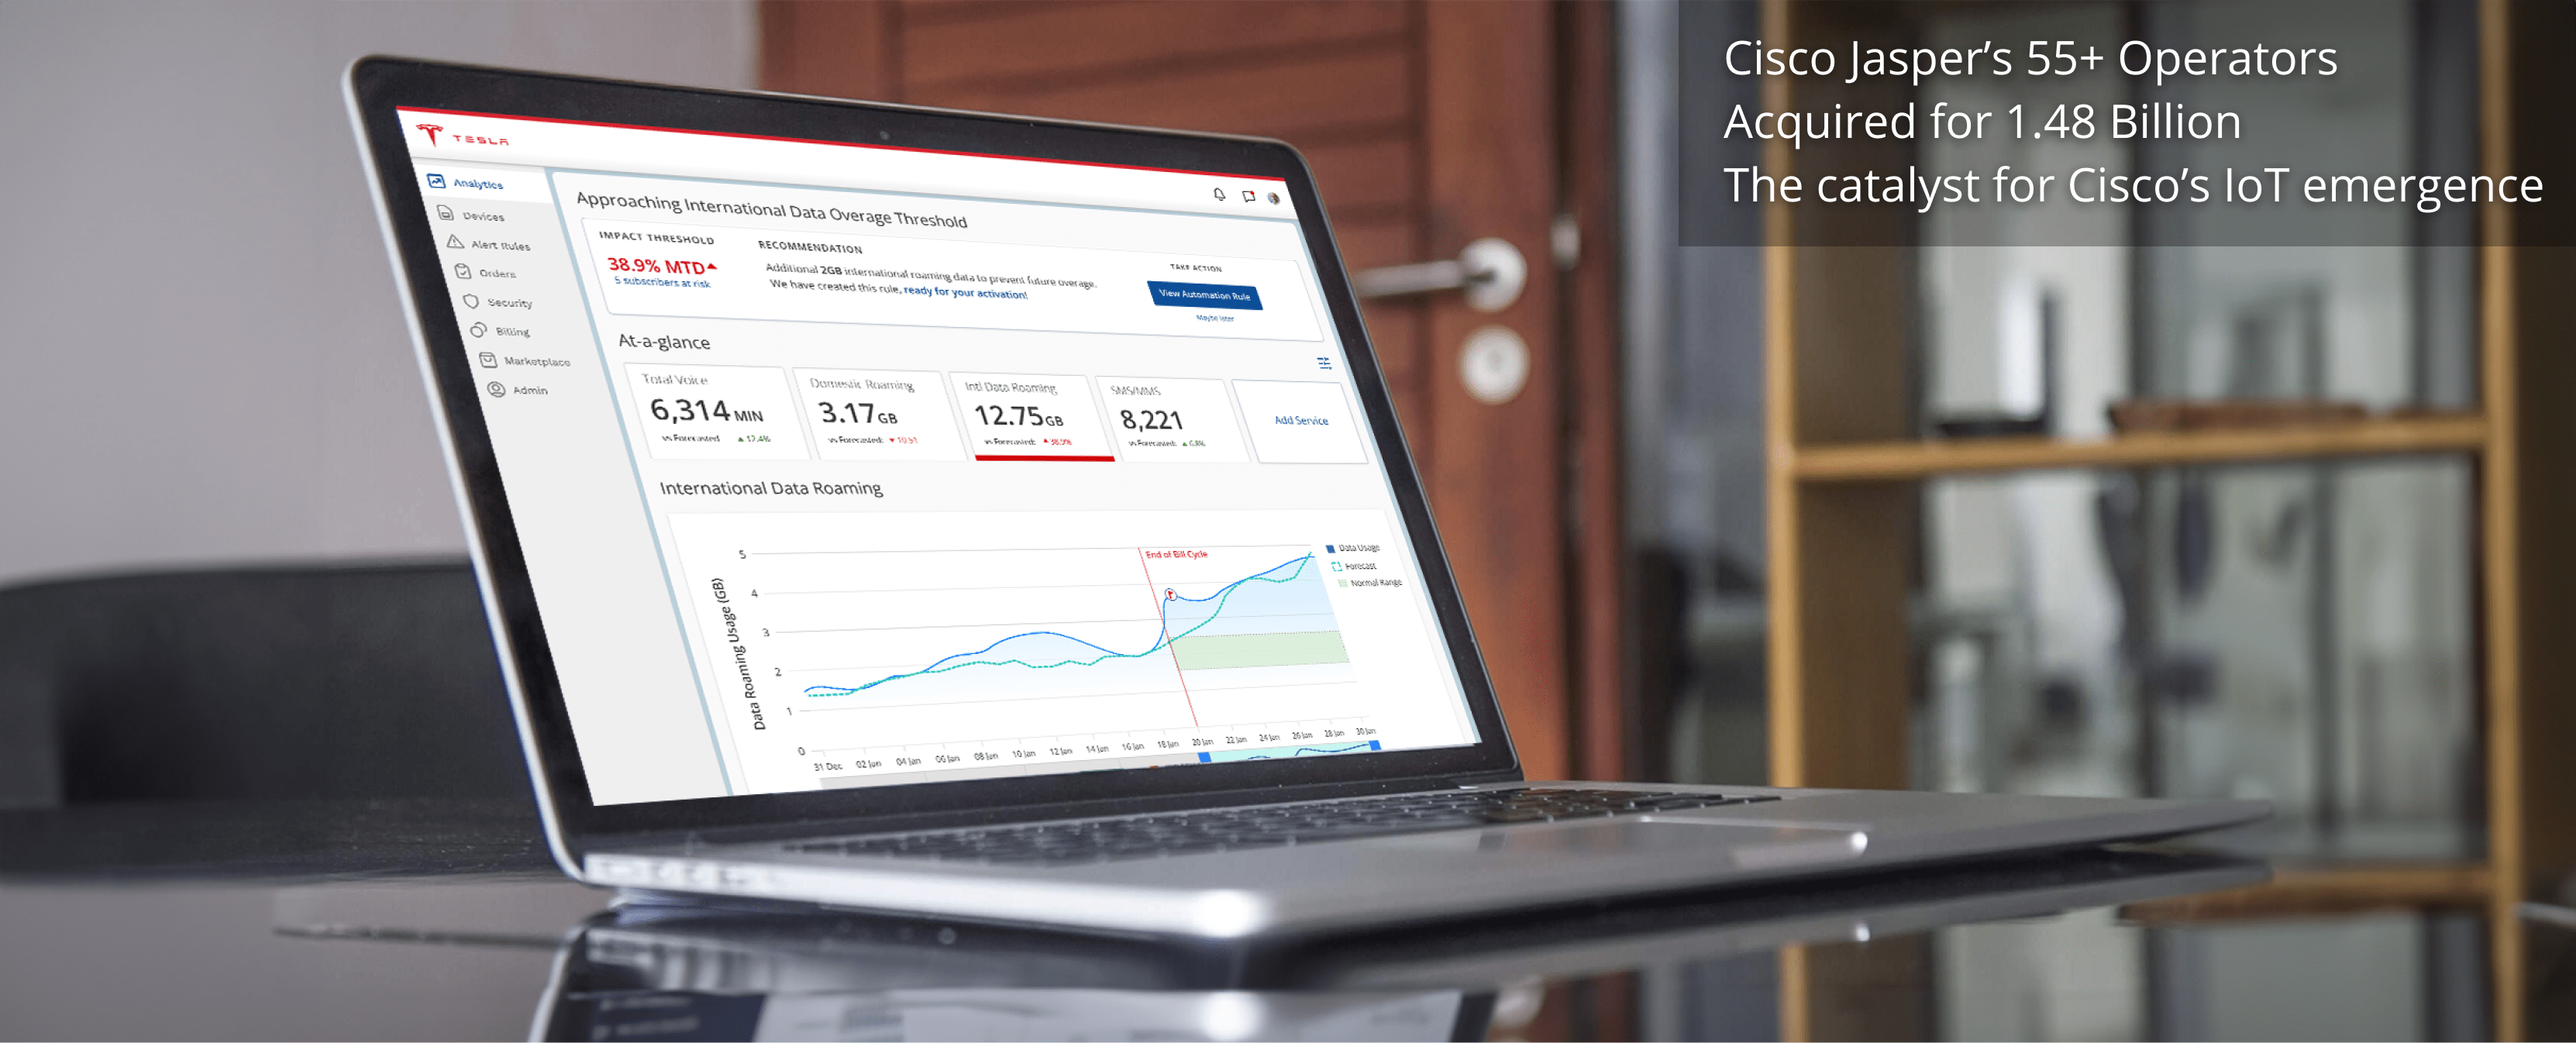
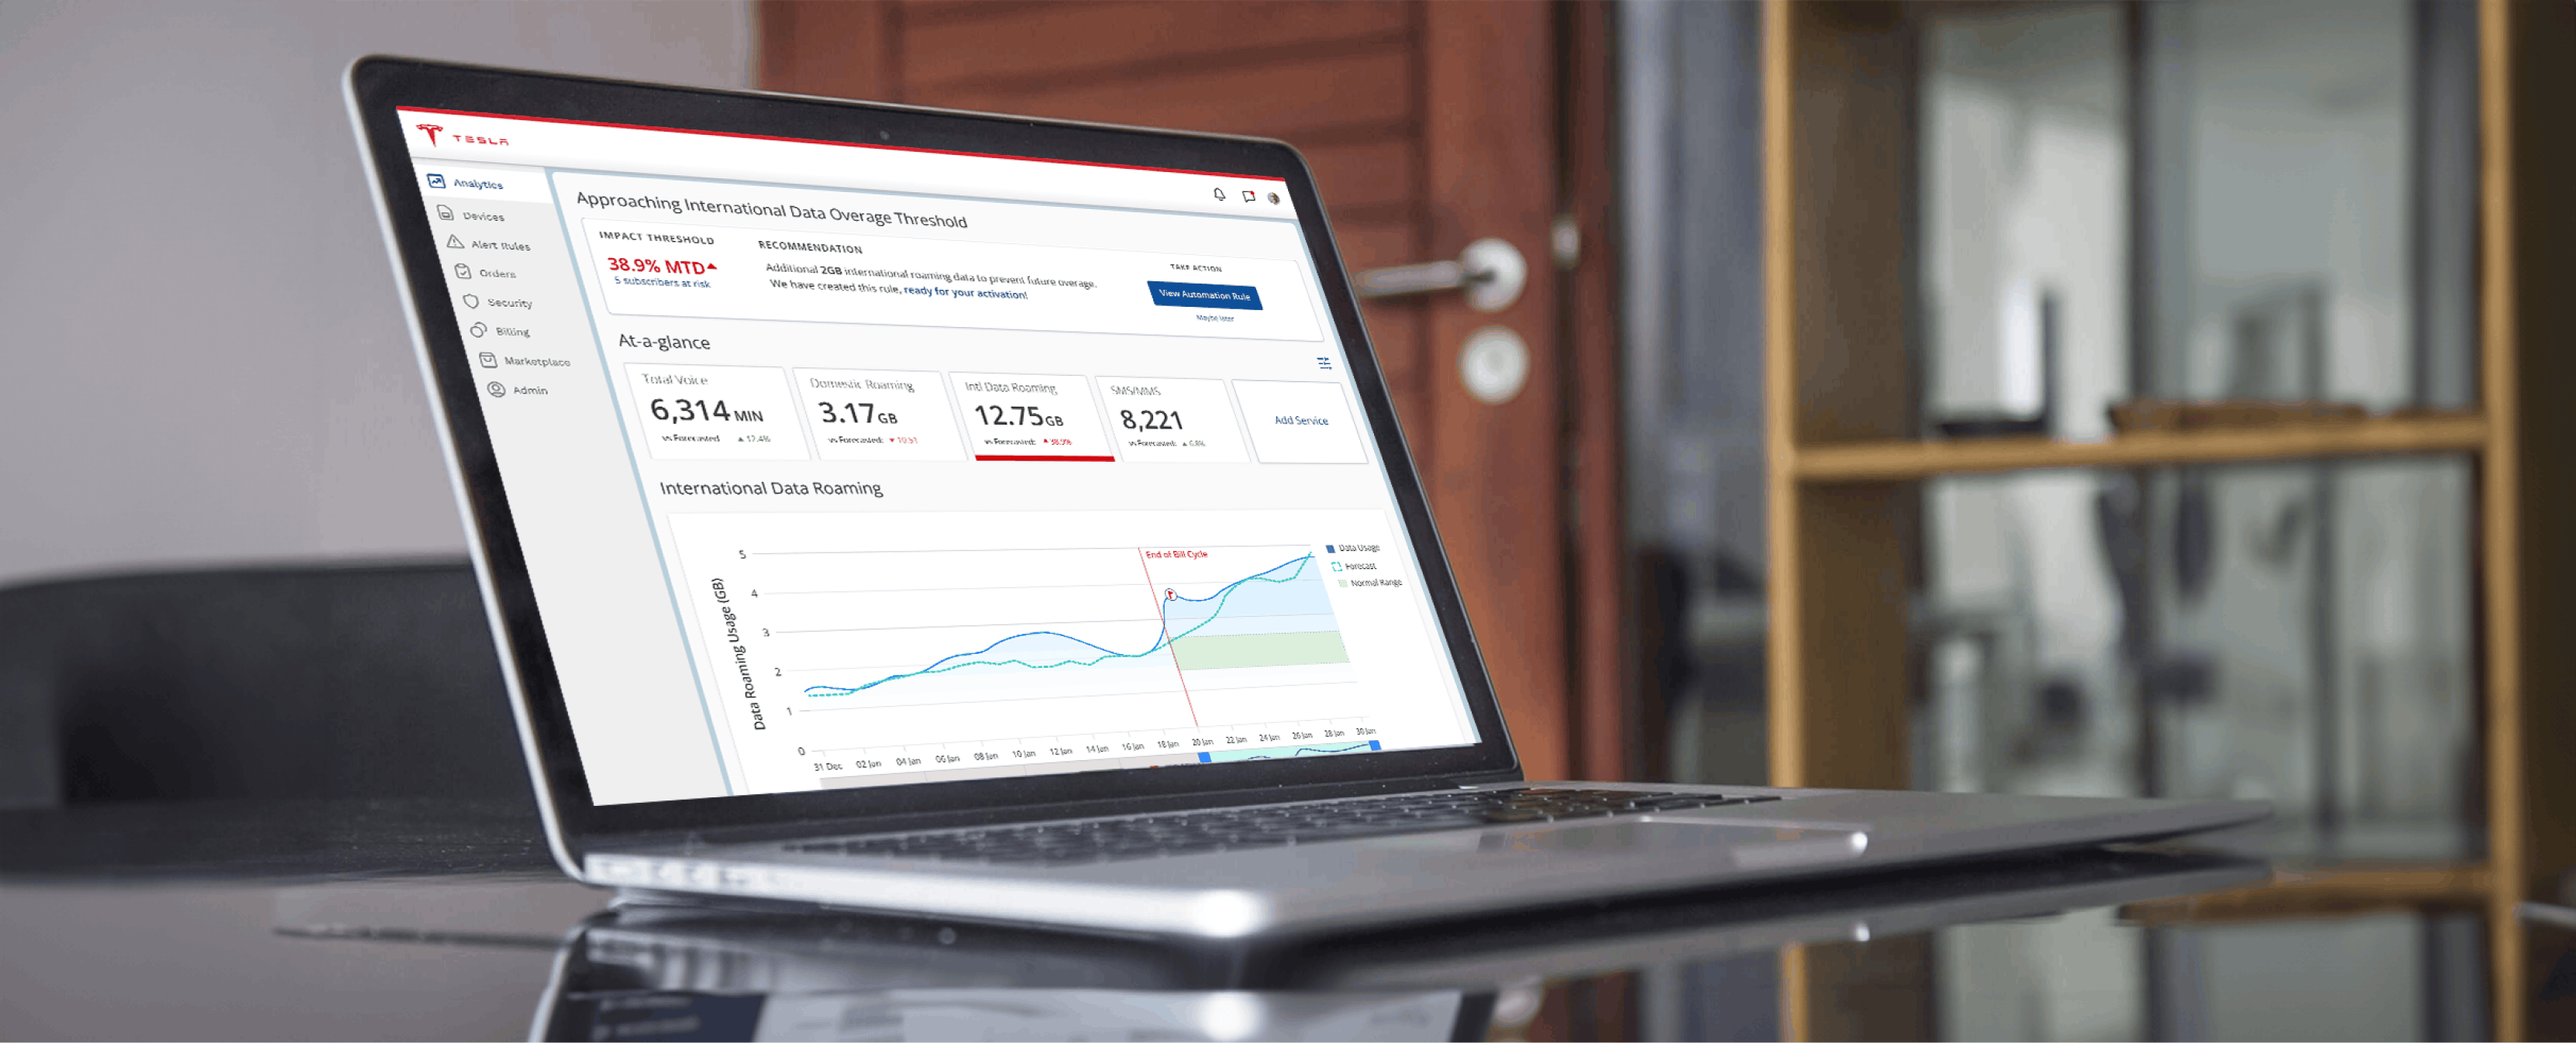
Jasper hero: use clean image and set the caption as live heading-font text
Claude-Session: https://claude.ai/code/session_01KNEX49o53edZYdAVqiDnVh

Changed region(s): [[0.6507, 0.0, 1.0, 0.2496]]

diff --git a/app/project.css b/app/project.css
@@ -792,3 +792,8 @@
   #project .jasper-legacy-annotations { display:grid; gap:8px; padding:12px 0; }
   #project .jasper-legacy-annotations .legacy-annotation { display:block; position:static; box-shadow:none; }
 }
+
+/* Jasper hero caption (live text over the clean hero image) */
+#project #project-header.jasper-hero { position:relative; }
+#project .jasper-hero-caption { position:absolute; top:clamp(10px,3%,32px); right:clamp(12px,3.5%,48px); display:flex; flex-direction:column; align-items:flex-end; gap:.2em; max-width:46%; text-align:right; color:#fff; font-family:var(--font-heading); font-size:clamp(10px,2.1vw,26px); font-weight:500; line-height:1.2; letter-spacing:-.01em; text-shadow:0 1px 14px rgba(0,0,0,.55),0 0 2px rgba(0,0,0,.35); pointer-events:none; }
+#project .jasper-hero-caption-sub { font-weight:400; opacity:.88; }
